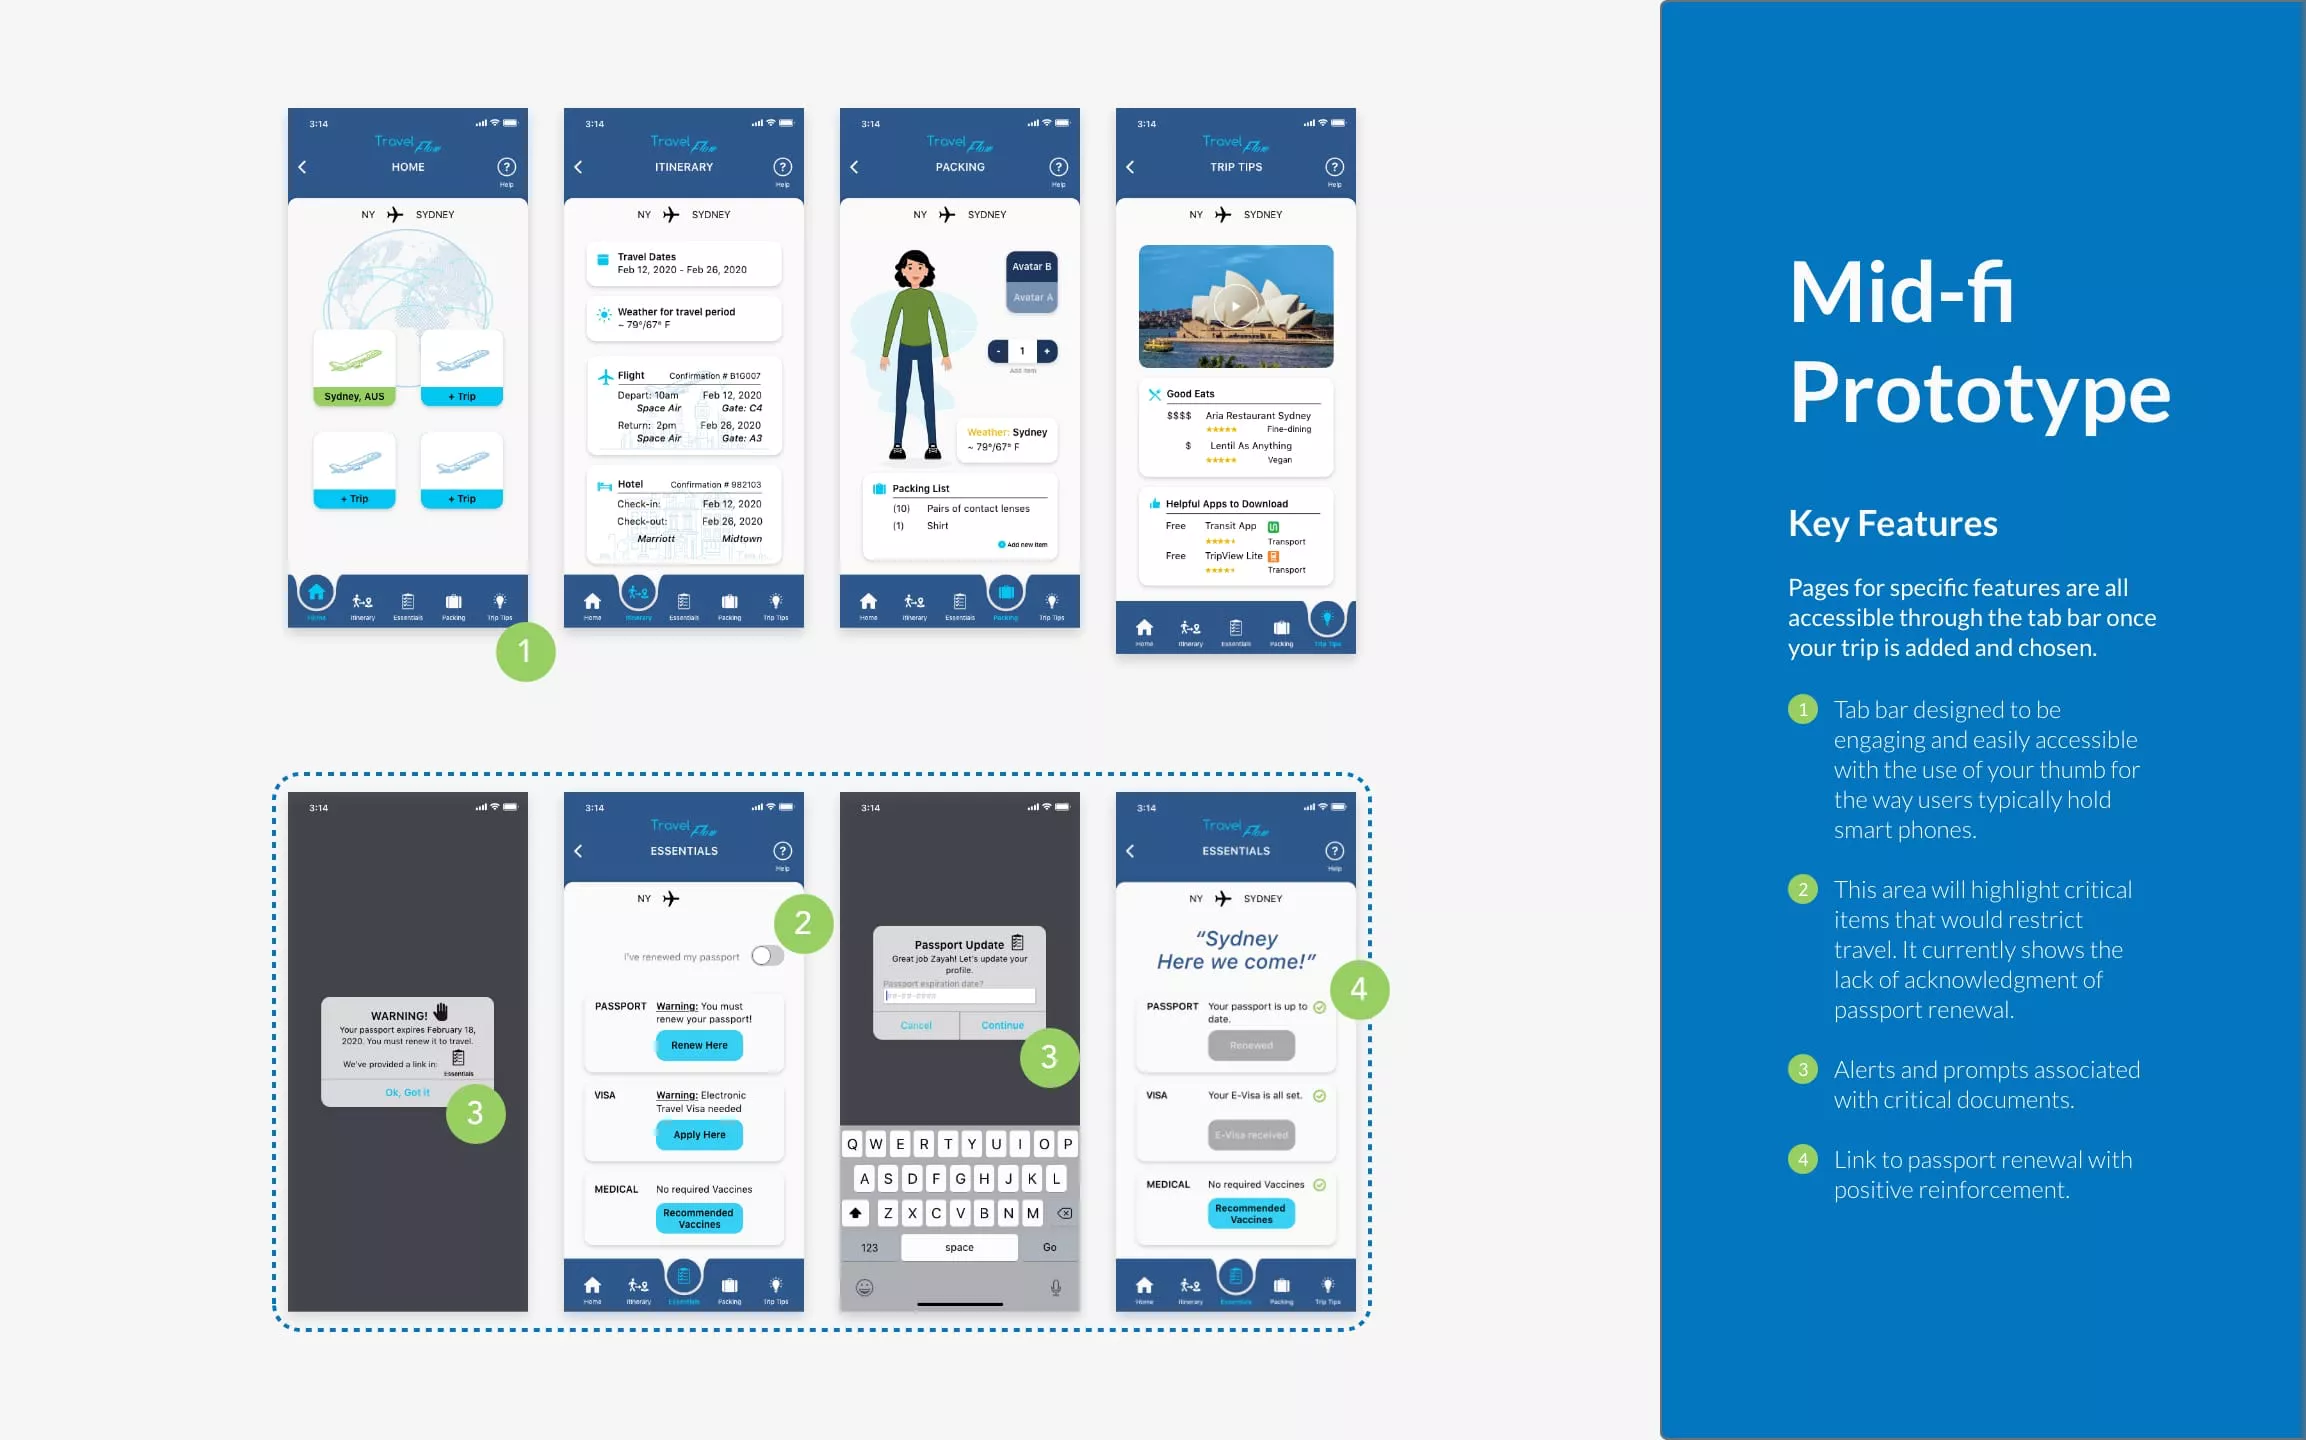
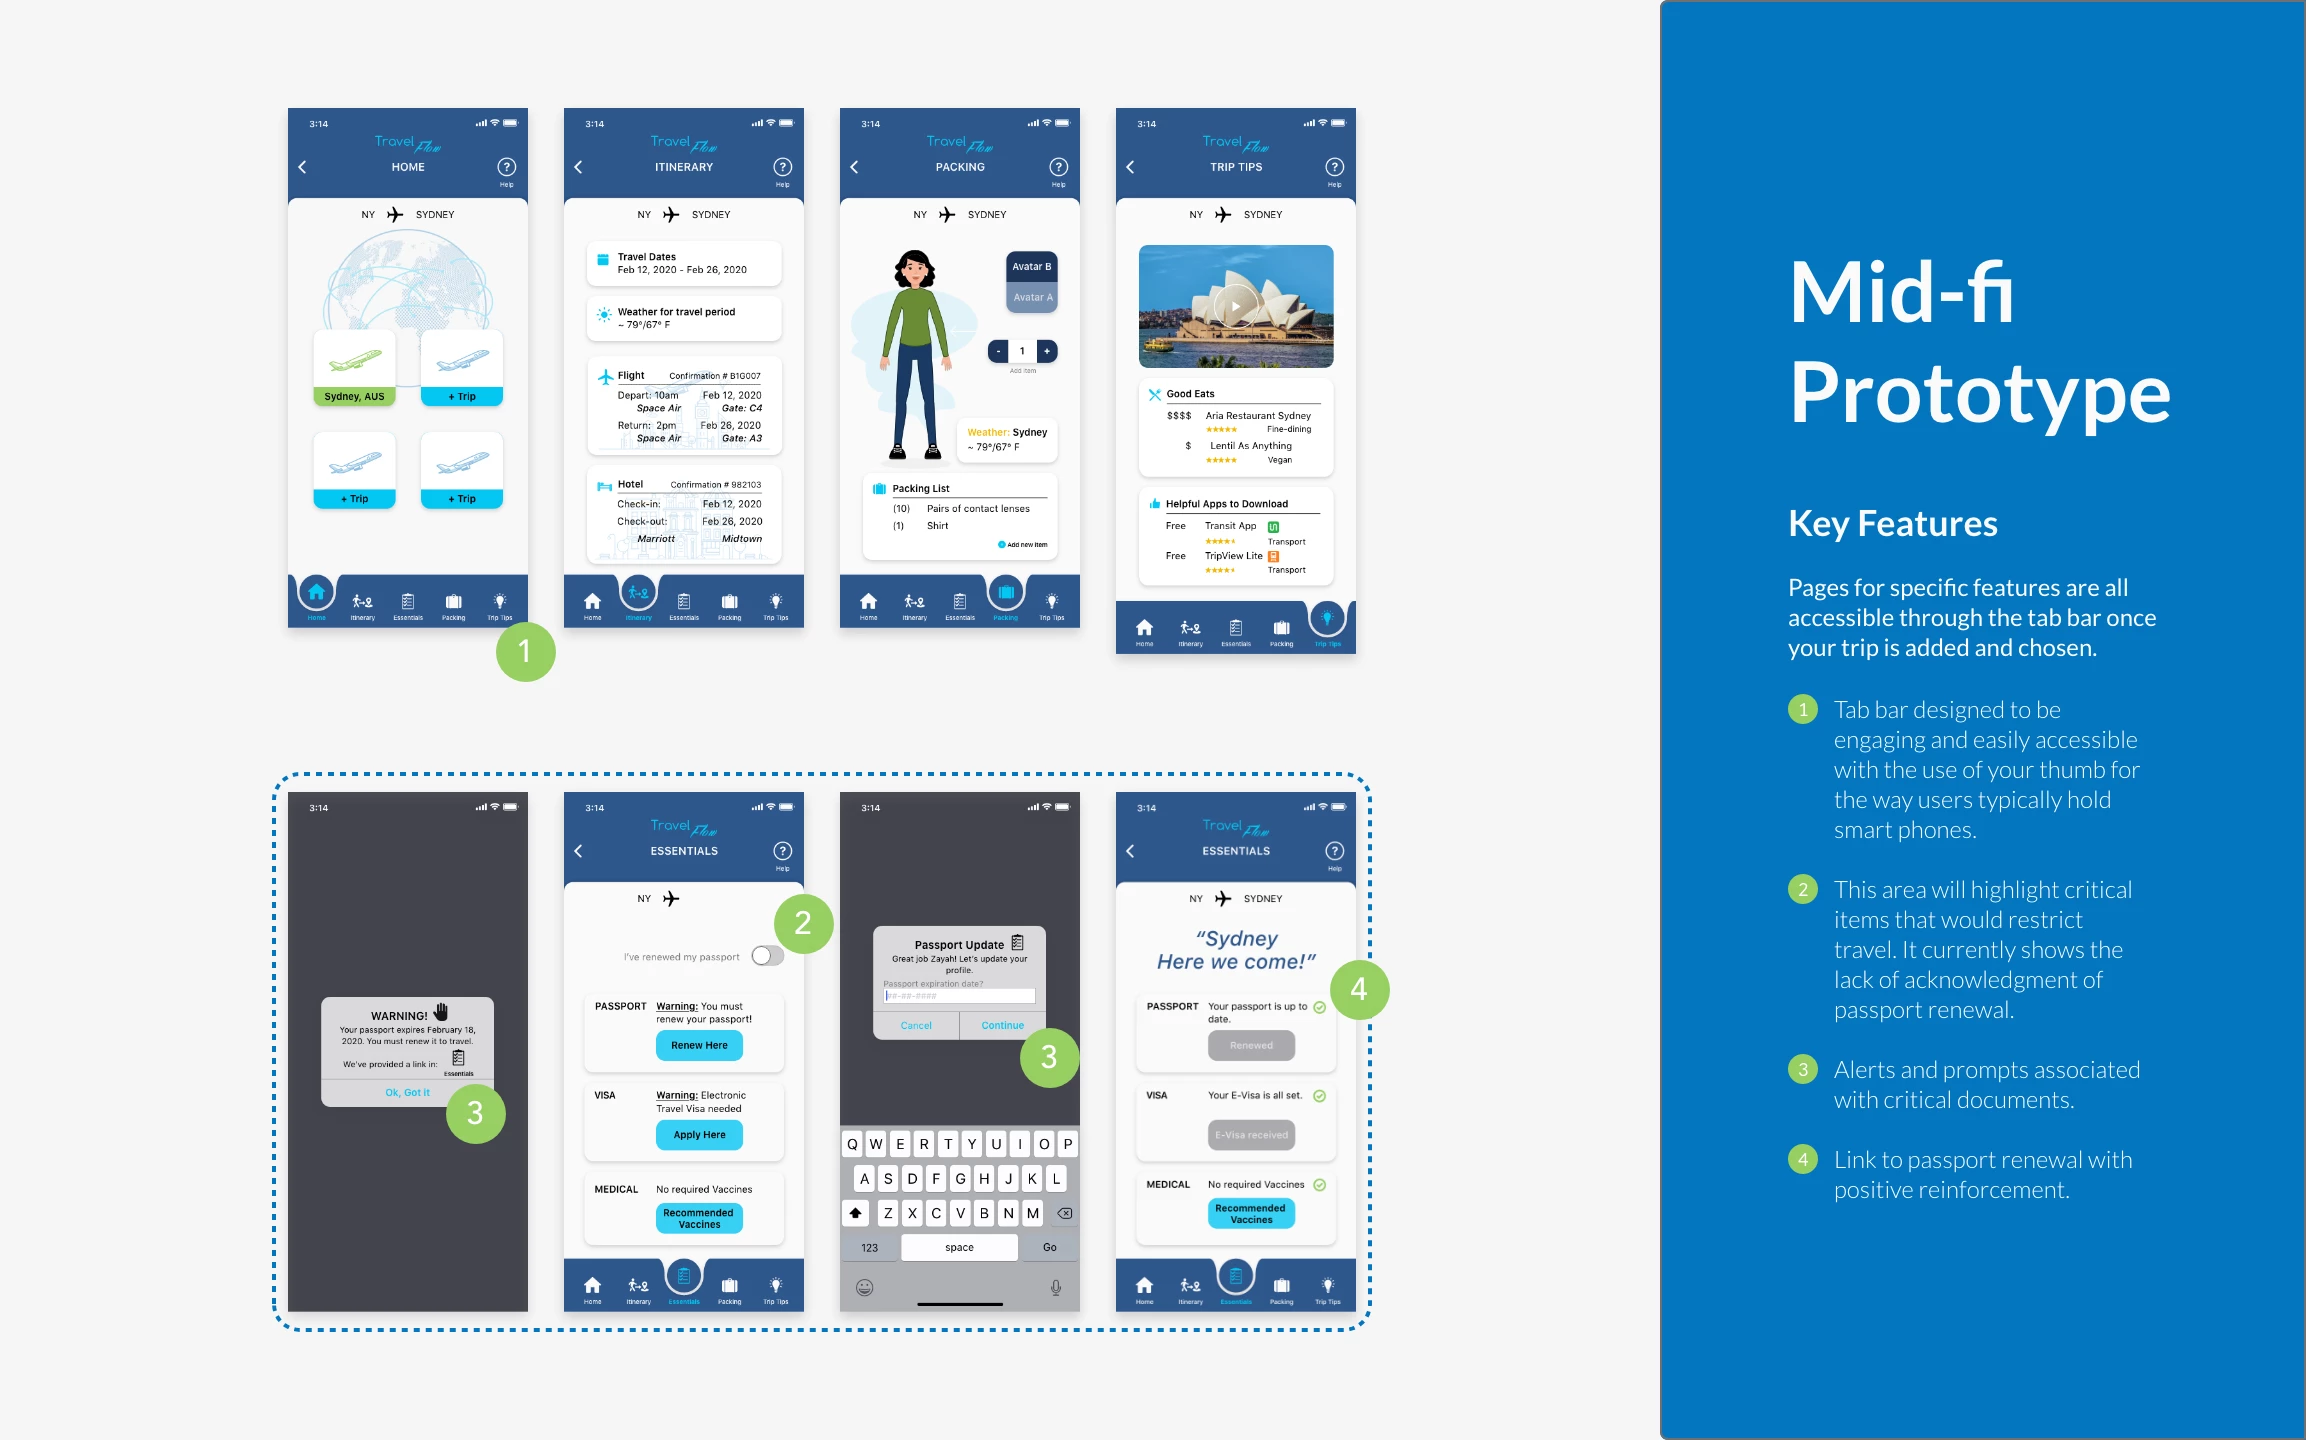
page load optimization
Prototype section
wireframe section

- user and task flow not done

Changed region(s): [[0.9991, 0.0, 1.0, 1.0], [0.7806, 0.4062, 0.9055, 0.4375]]

diff --git a/case-TA.html b/case-TA.html
@@ -249,8 +249,8 @@
                     </div>
 
                     <div class="col-12 col-lg-6 d-flex justify-content-center justify-content-lg-start">
-                        <a href="images/case-TA-affinity.jpg" data-title="Travel Flow Affinity Diagram" class="popup-background"  data-toggle="lightbox">
-                            <img class="artifact img-fluid" src="images/case-TA-affinity.jpg" class="img-fluid" alt="affinity diagram">
+                        <a href="images/case-TA-affinity.webp" data-title="Travel Flow Affinity Diagram" class="popup-background"  data-toggle="lightbox">
+                            <img class="artifact img-fluid" src="images/case-TA-affinity.webp" class="img-fluid" alt="affinity diagram">
                           </a>
                         <!-- <img class="artifact"  src="images/case-TA-affinity.svg" alt="affinity diagram"> -->
                     </div>
@@ -266,8 +266,8 @@
                     <div class="col-12 col-lg-6 d-flex justify-content-center justify-content-lg-start order-2 order-lg-1">
 
                             <!-- lightbox for artifact -->
-                            <a href="images/case-TA-persona.jpg" data-title="Travel Flow Persona: Zayah" class="popup-background"  data-toggle="lightbox">
-                              <img class="artifact img-fluid" src="images/case-TA-persona.jpg" class="img-fluid">
+                            <a href="images/case-TA-persona.webp" data-title="Travel Flow Persona: Zayah" class="popup-background"  data-toggle="lightbox">
+                              <img class="artifact img-fluid" src="images/case-TA-persona.webp" class="img-fluid">
                             </a>
 
                         <!-- <img class="artifact" data-toggle="lightbox" src="images/case-TA-persona.jpg" alt="persona"> -->
@@ -377,8 +377,8 @@
                         <div id="matrix-border">
                             <h3 class="data-title text-center">Feature Prioritization</h3>
                             <!-- Lightbox for artifact -->
-                            <a href="images/case-TA-feature-matrix.jpg" data-title="Travel Flow Feature Prioritization Matrix" class="popup-background"  data-toggle="lightbox">
-                                <img class="artifact img-fluid" src="images/case-TA-feature-matrix.jpg" alt="feature prioritization matrix" class="img-fluid">
+                            <a href="images/case-TA-feature-matrix.webp" data-title="Travel Flow Feature Prioritization Matrix" class="popup-background"  data-toggle="lightbox">
+                                <img class="artifact img-fluid" src="images/case-TA-feature-matrix.webp" alt="feature prioritization matrix" class="img-fluid">
                               </a>
                         </div>
                     </div>
@@ -435,23 +435,23 @@
                                 <div class="carousel-inner text-center">
                                   <div class="carousel-item active">
                                         <!-- larger lightbox image -->
-                                        <a href="images/Case-TA-storyboard-big@2x.jpg" data-title="Storyboard" class="popup-background"  data-toggle="lightbox">
+                                        <a href="images/Case-TA-storyboard-big@2x.webp" data-title="Storyboard" class="popup-background"  data-toggle="lightbox">
                                             <!-- smaller image -->
-                                            <img id="story-1" class="d-block mx-auto img-fluid" src="images/Case-TA-storyboard-big@2x.jpg" alt="First slide - storyboard">
+                                            <img id="story-1" class="d-block mx-auto img-fluid" src="images/Case-TA-storyboard-big@2x.webp" alt="First slide - storyboard">
                                         </a>
                                   </div>                                  
                                   <div class="carousel-item">
                                         <!-- larger lightbox image -->
-                                        <a href="images/Case-TA-scenario-big@2x.jpg" data-title="Scenario" class="popup-background"  data-toggle="lightbox">
+                                        <a href="images/Case-TA-scenario-big@2x.webp" data-title="Scenario" class="popup-background"  data-toggle="lightbox">
                                             <!-- smaller image -->
-                                            <img id="story-2" class="d-block mx-auto img-fluid" src="images/Case-TA-scenario-big@2x.jpg" alt="Second slide - scenario">
+                                            <img id="story-2" class="d-block mx-auto img-fluid" src="images/Case-TA-scenario-big@2x.webp" alt="Second slide - scenario">
                                         </a>
                                   </div>
                                   <div class="carousel-item">
                                         <!-- larger lightbox image -->
-                                        <a href="images/Case-TA-journeymap-big@2x.jpg" data-title="Scenario" class="popup-background"  data-toggle="lightbox">
+                                        <a href="images/Case-TA-journeymap-big@2x.png" data-title="Scenario" class="popup-background"  data-toggle="lightbox">
                                             <!-- smaller image -->
-                                            <img id="story-3" class="d-block mx-auto img-fluid" src="images/Case-TA-journeymap-big@2x.jpg" alt="Third slide - journey map">
+                                            <img id="story-3" class="d-block mx-auto img-fluid" src="images/Case-TA-journeymap-big@2x.png" alt="Third slide - journey map">
                                         </a>
                                   </div>
                                   <a class="carousel-control-prev d-flex justify-content-start" href="#carouselExampleCaptions" role="button" data-slide="prev">
@@ -568,7 +568,7 @@
                         <div class="col-12 col-lg-6 d-flex justify-content-center justify-content-lg-start order-2 order-lg-1 pt-2 pt-lg-0">
                             <div id="">
                                 <h3 class="data-title text-center">Paper Wireframe</h3>
-                                    <img class="artifact img-fluid" src="images/case-TA-wireframe.png" alt="paper wireframes">
+                                    <img class="artifact img-fluid" src="images/case-TA-wireframe.webp" alt="paper wireframes">
                             </div>
                         </div>
 
@@ -619,7 +619,7 @@
                         <div class="col-12 col-lg-6 d-flex justify-content-center justify-content-lg-start align-self-center pt-2 pt-lg-0">
                             <div>
                                 <h3 class="data-title text-center">Digital Wireframe</h3>
-                                <img class="artifact img-fluid" src="images/case-TA-digitalwireframe.png" alt="digital wireframes">
+                                <img class="artifact img-fluid" src="images/case-TA-digitalwireframe.webp" alt="digital wireframes">
                             </div>
                         </div>
                     </div>
@@ -704,9 +704,9 @@
                 <div class="row d-flex justify-content-center">
                     <div class="col-12 d-flex justify-content-center">
                         <!-- larger lightbox image -->
-                        <a href="images/case-TA-prototype-onboarding-big@2X.jpg" data-title="Prototype: On-boarding" class="popup-background"  data-toggle="lightbox">
+                        <a href="images/case-TA-prototype-onboarding-big@2X.webp" data-title="Prototype: On-boarding" class="popup-background"  data-toggle="lightbox">
                             <!-- smaller image -->
-                        <img class="d-block mx-auto img-fluid" src="images/case-TA-prototype-onboarding@2X.jpg" alt="prototype on-boarding screens"></a>
+                        <img class="d-block mx-auto img-fluid" src="images/case-TA-prototype-onboarding@2X.webp" alt="prototype on-boarding screens"></a>
                     </div>      
 
                 </div>  
@@ -754,9 +754,9 @@
                 <div class="row d-flex justify-content-center">
                     <div class="col-12 d-flex justify-content-center">
                         <!-- larger lightbox image -->
-                        <a href="images/case-TA-prototype-features-big@2X.jpg" data-title="Prototype: Features" class="popup-background"  data-toggle="lightbox">
+                        <a href="images/case-TA-prototype-features-big@2X.webp" data-title="Prototype: Features" class="popup-background"  data-toggle="lightbox">
                             <!-- smaller image -->
-                        <img class="d-block mx-auto img-fluid" src="images/case-TA-prototype-features@2X.jpg" alt="prototype features screens"></a>
+                        <img class="d-block mx-auto img-fluid" src="images/case-TA-prototype-features@2X.webp" alt="prototype features screens"></a>
                     </div>      
 
                 </div>  

diff --git a/css/wrc.css b/css/wrc.css
@@ -146,7 +146,7 @@ html {scroll-behavior: smooth;}
     width: 100%;
     height: 400px;
     /* background-color: #287094; */
-    background: url("/images/case-TA-hero2.jpg") center center no-repeat;
+    background: url("/images/case-TA-hero2.webp") center center no-repeat;
 }
 
 .myright-side {
@@ -417,7 +417,7 @@ width: 420px;
   .mid-fi-section {
       height:80%vh;
       width: 100%vh;
-      background: url("../images/case-TA-midfi@2x.jpg") no-repeat center center fixed;
+      background: url("../images/case-TA-midfi@2x.webp") no-repeat center center fixed;
       background-size:cover;
       z-index: 0;
       text-align: center;
